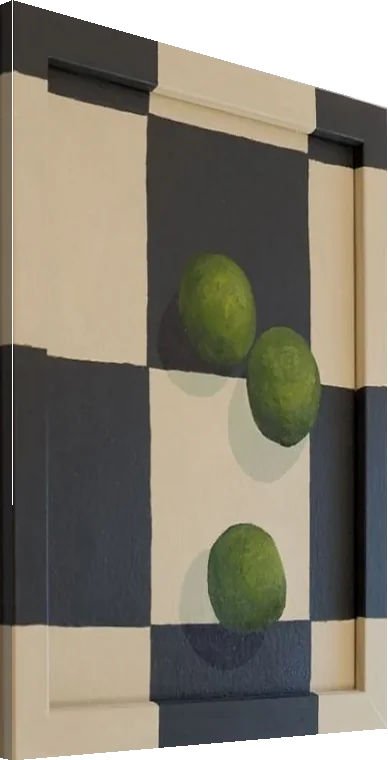
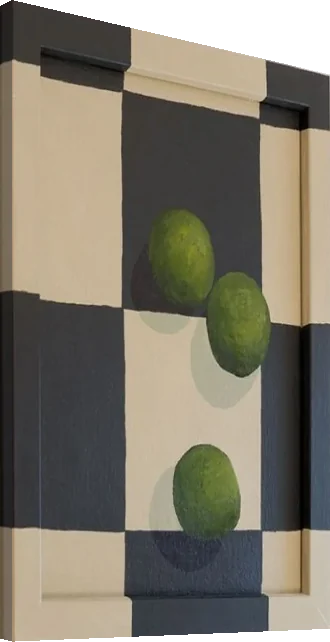
Smaller wall painting, pink note on the back wall, bold notes and letter everywhere

diff --git a/css/style.css b/css/style.css
@@ -111,7 +111,7 @@ img, video, iframe { display: block; max-width: 100%; }
   position: absolute; left: 4%; top: 0; width: 92%; height: 84%;
   background: url("../assets/letter-paper.webp") center / cover; transition: transform .35s ease;
 }
-.letter-paper p { margin: 22% 0 0; text-align: center; font: italic 400 8.5cqw/1 var(--script); color: var(--ink); }
+.letter-paper p { margin: 22% 0 0; text-align: center; font: 700 8.5cqw/1 var(--script); color: var(--ink); }
 .board:hover .letter-paper, .board:focus-visible .letter-paper { transform: translateY(-6%); }   /* the letter peeks up out of the envelope */
 .pinned .env { position: absolute; left: 0; bottom: 0; width: 100%; display: block; }
 .pinned .magnet { position: absolute; left: 50%; top: -4%; width: 15%; transform: translateX(-50%); filter: drop-shadow(-2px 2px 2px rgba(0, 0, 0, .35)); }
@@ -120,11 +120,7 @@ img, video, iframe { display: block; max-width: 100%; }
 .note { container-type: size; padding: 0 6px; display: flex; align-items: center; justify-content: center; text-align: center; }
 .note-yellow { background: linear-gradient(160deg, #F8E58C, #EFD56A); }
 .note-pink   { background: linear-gradient(160deg, #F6C7CF, #EDB2BD); }
-.note p { margin: 12% 0 0; font: italic 400 17cqw/1.05 var(--script); color: var(--ink); }
-@media (max-aspect-ratio: 11/10) {   /* phones: bold, so the small notes and the letter still read */
-  .note p { font: 700 16cqw/1.05 var(--script); }
-  .letter-paper p { font: 700 8.5cqw/1 var(--script); }
-}
+.note p { margin: 12% 0 0; font: 700 16cqw/1.05 var(--script); color: var(--ink); }   /* bold, so the notes read at a glance */
 .tape { position: absolute; display: block; }
 .tape-n { width: 74px; left: 50%; top: -12px; transform: translateX(-50%) rotate(-4deg); }
 .star svg { display: block; width: 100%; height: 100%; }

diff --git a/js/room.js b/js/room.js
@@ -12,8 +12,8 @@ const CANVAS = { w: 1920, h: 1881, view: 1080 };
 
 const ROOM = [
   // ---- on the wall. Only pieces that lead somewhere float; `label` + `go`/`act` make a piece clickable ----
-  { id: "painting", src: "painting-limes-wall", x: 135, bottom: 497, w: 155, aspect: 0.5095, cls: "hung" },   // on the left wall, in its perspective
-  { id: "note-b", html: "note", text: "brand<br>voice ♡", tone: "pink", x: 208, bottom: 637, w: 110, h: 110, float: { rot: -7, dur: 7.5, delay: -5 },
+  { id: "painting", src: "painting-limes-wall", x: 176, bottom: 458, w: 110, aspect: 0.5143, cls: "hung" },   // on the left wall, in its perspective
+  { id: "note-b", html: "note", text: "brand<br>voice ♡", tone: "pink", x: 452, bottom: 236, w: 104, h: 104, float: { rot: -7, dur: 7.5, delay: -5 },
     label: "about Isha", go: "#about" },
   { id: "note-a", html: "note", text: "stories that<br>stick", tone: "yellow", x: 1620, bottom: 300, w: 114, h: 114, float: { rot: 5, dur: 6.5, delay: -3 },
     label: "see the stories", go: "#work" },
